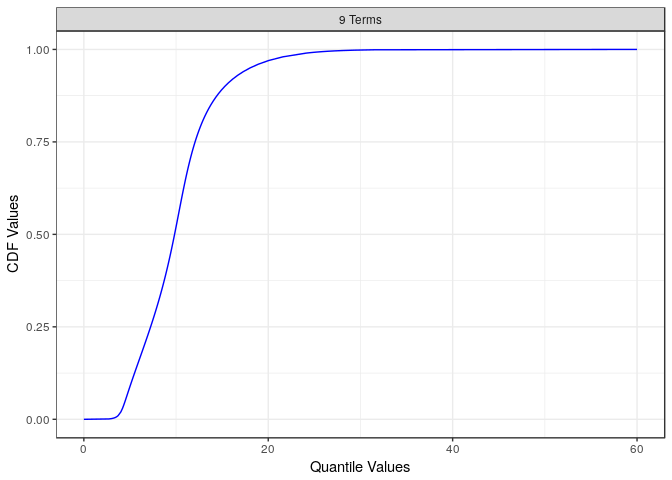
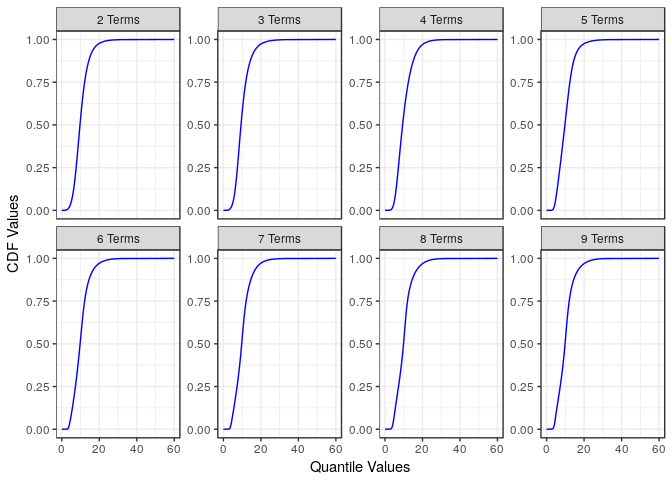
update readme

diff --git a/README.md b/README.md
@@ -60,7 +60,7 @@ Here is an example of a lower bounded distribution build.
 ``` r
 my_metalog <- r_metalog(fishSize$FishSize,
                        term_limit = 9,
-                       term_lower_bound = 9,
+                       term_lower_bound = 2,
                        bounds=c(0,60),
                        boundedness = 'b',
                        step_len = .01)
@@ -69,14 +69,14 @@ my_metalog <- r_metalog(fishSize$FishSize,
 The function returns an object of class `rmetalog` and `list`. You can get a summary of the distributions using `summary`.
 
 ``` r
-summary(my_metalog)
+r_metalog_summary(my_metalog)
 #>  -----------------------------------------------
 #>  Summary of Metalog Distribution Object
 #>  -----------------------------------------------
 #>  
 #> Parameters
 #>  Term Limit:  9 
-#>  Term Lower Bound:  9 
+#>  Term Lower Bound:  2 
 #>  Boundedness:  b 
 #>  Bounds (only used based on boundedness):  0 60 
 #>  Step Length for Distribution Summary:  0.01 
@@ -84,13 +84,20 @@ summary(my_metalog)
 #> 
 #>  Validation and Fit Method
 #>  term valid method
+#>     2   yes    OLS
+#>     3   yes    OLS
+#>     4   yes    OLS
+#>     5   yes    OLS
+#>     6   yes    OLS
+#>     7   yes    OLS
+#>     8   yes    OLS
 #>     9   yes    OLS
 ```
 
 You can also plot a quick visaul comparison of the distributions by term.
 
 ``` r
-plot(my_metalog)
+r_metalog_plot(my_metalog)
 ```
 
 ![](README-unnamed-chunk-7-1.png)
@@ -102,7 +109,7 @@ plot(my_metalog)
 Once the distributions are built, you can create `n` samples by selecting a term.
 
 ``` r
-s<-rmetalog_sample(my_metalog,n=1000,term=9)
+s<-r_metalog_sample(my_metalog,n=1000,term=9)
 hist(s)
 ```
 
@@ -111,7 +118,7 @@ hist(s)
 You can also retrieve quantile values with a probability in a similar way.
 
 ``` r
-rmetalog_quantile(my_metalog,y=c(0.25,0.5,0.75),term=9)
+r_metalog_quantile(my_metalog,y=c(0.25,0.5,0.75),term=9)
 #>             a9
 #> [1,]  7.240623
 #> [2,]  9.840139
